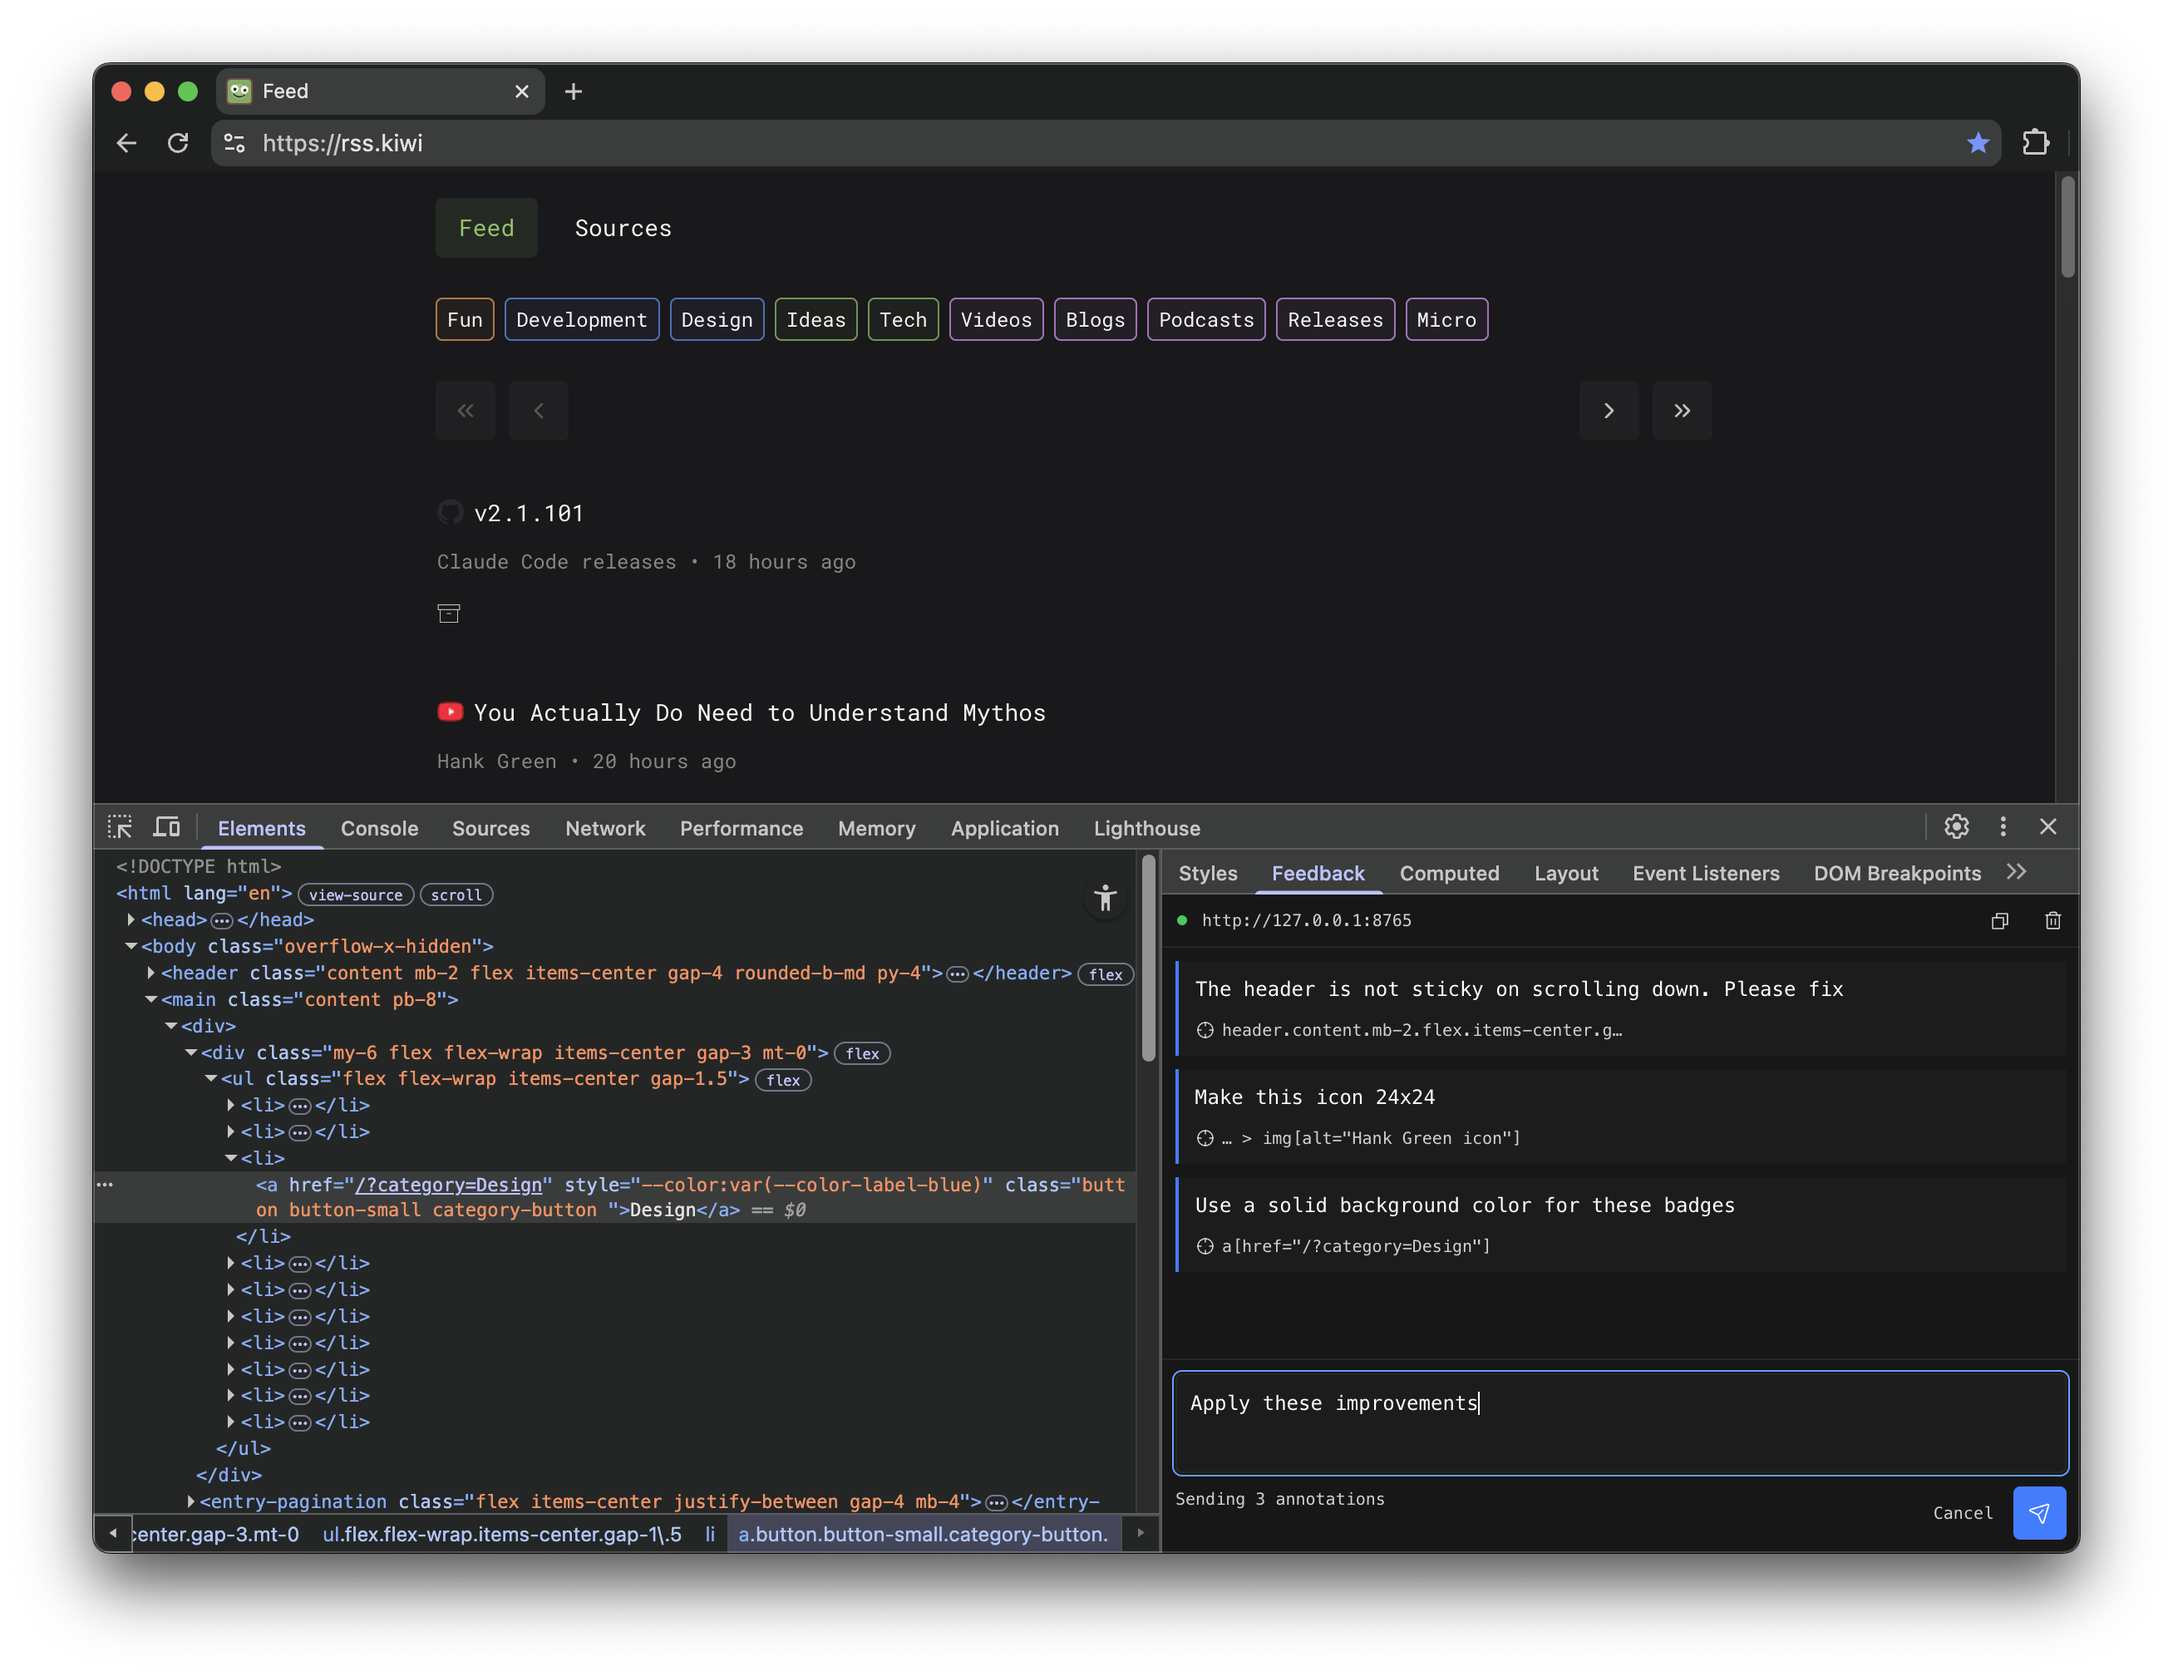
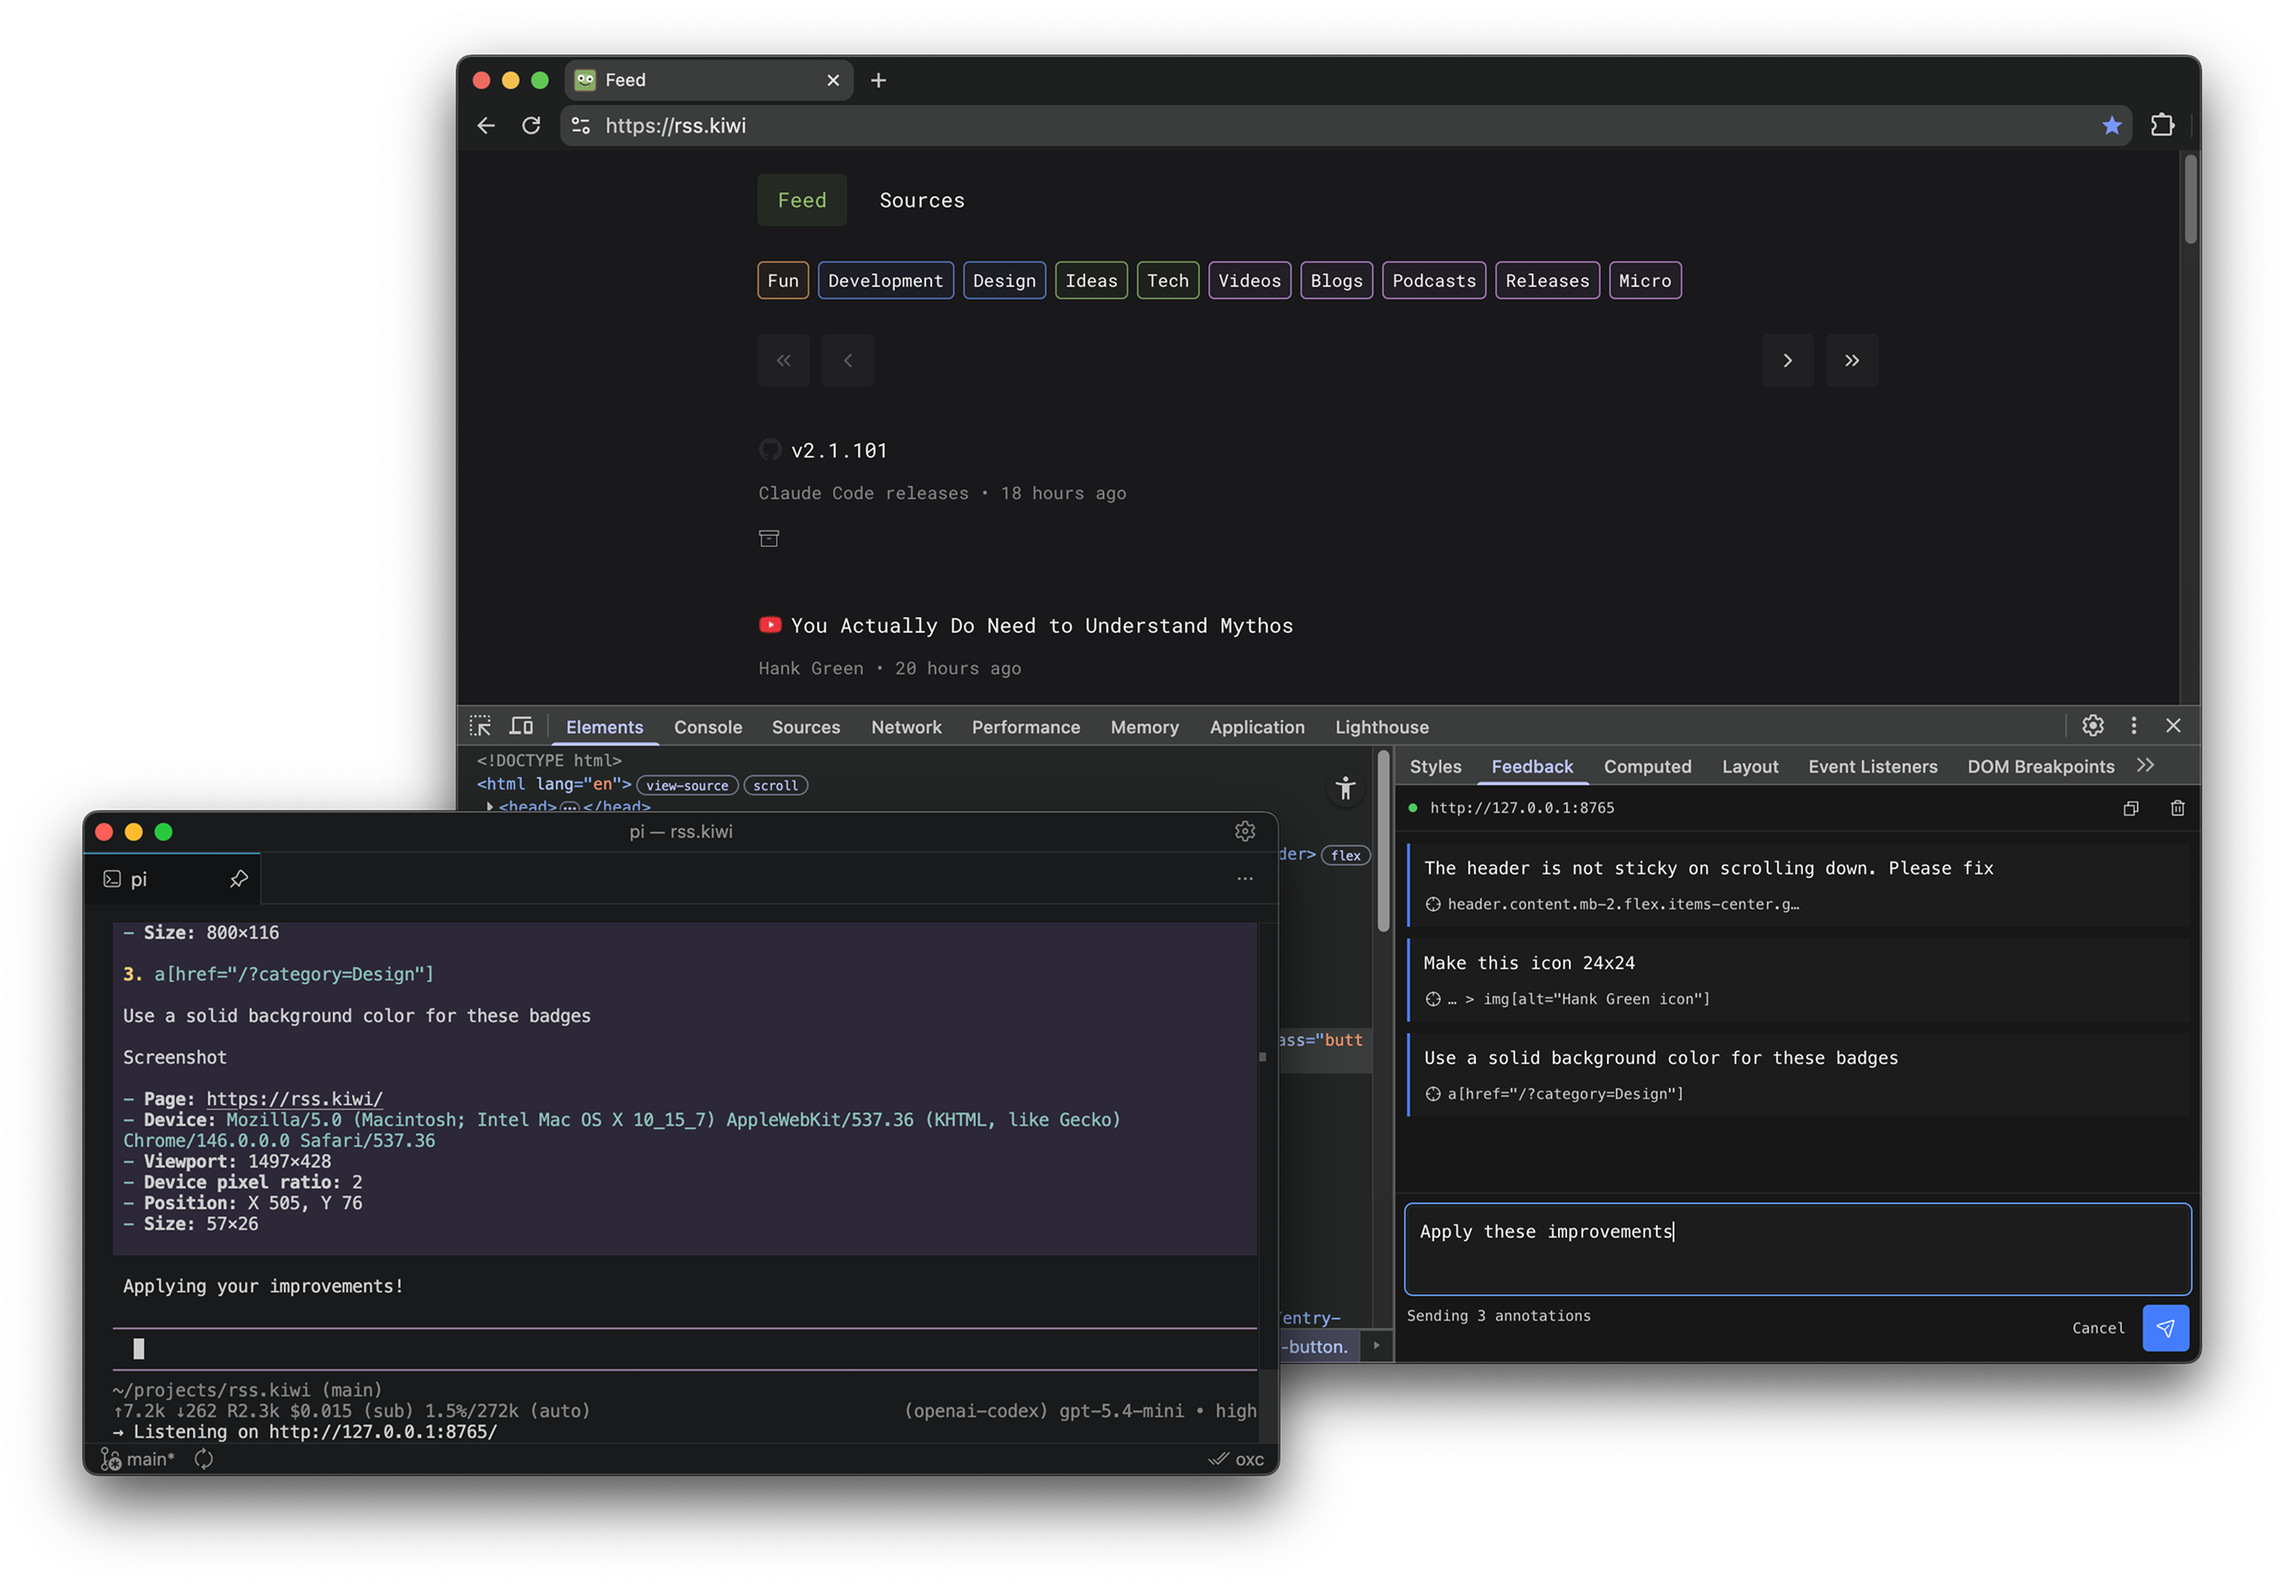
Add pi instructions

diff --git a/README.md b/README.md
@@ -8,7 +8,22 @@ A Chrome extension for developers to annotate elements and send feedback to agen
 
 > Currently figuring out how I can best distribute the packages :)
 
+### pi
+
+```bash
+# 1. Install the extension
+pi install git:github.com/wiebekaai/browser-annotations
+
+# 2. Start pi
+pi
+
+# 3. Start the browser-annotations server
+/browser-annotations
+```
+
 ### Claude Code
+
+Claude Code is a mess, but I love Opus too, so here's how to use it:
 
 ```bash
 # 1. Start Claude Code
@@ -34,7 +49,9 @@ bunx kill-port 8765
 3. Use `Add` to batch annotations
 4. Hit `Submit` to notify your agent or copy to clipboard
 
-![Screenshot](docs/screenshot.png)
+![Sending feedback from the Chrome DevTools to pi.](docs/screenshot.png)
+
+<sub>Sending feedback from the Chrome DevTools to pi.</sub>
 
 ## Features
 
